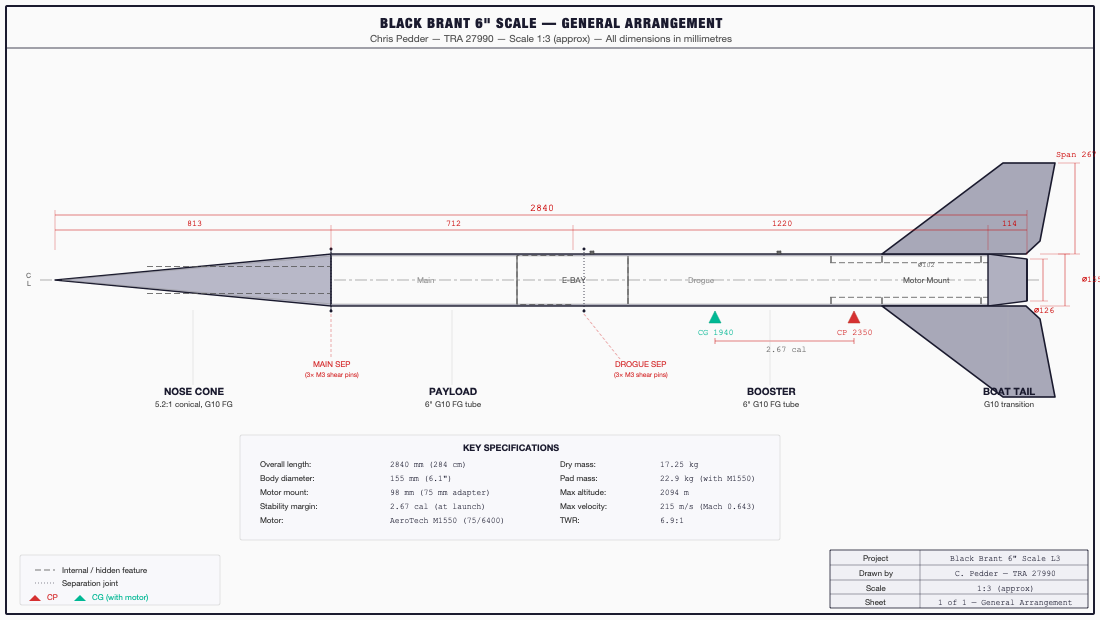
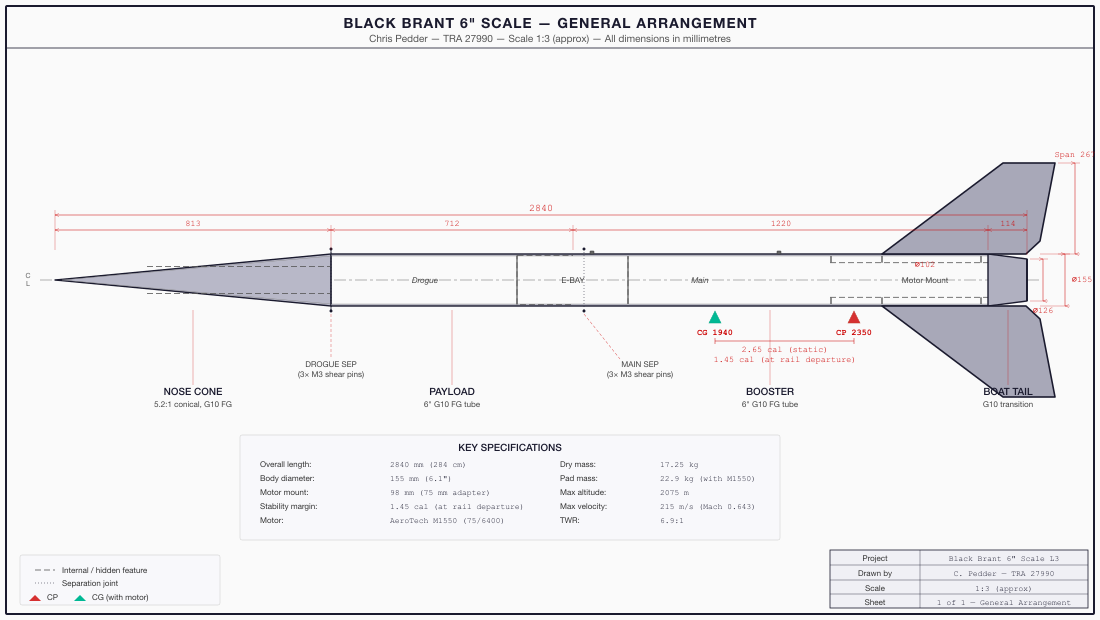
Update design document with corrected values and drawing fixes
- Fix black powder charge calculation (5.0g → 5.5g) and propagate
- Correct nose cone hardware to M6 (from ¼")
- Swap main/drogue labels in profile drawing
- Update stability margin to 1.45 cal at rail departure
- Update max altitude to 2075m
- Change sled material to CF reinforced PLA, mould to PETG
- Confirm waiver radius, remove TODO notes and pending-update note

diff --git a/document/L3_Design_Document.md b/document/L3_Design_Document.md
@@ -139,11 +139,11 @@ Black powder charge sizes were calculated using the [Speed Motion Rockets ejecti
 - Compartment diameter: 15.2 cm
 - Compartment length: 40 cm
 - Packing fraction: 0.9
-- **Calculated charge: 5.0 g**
+- **Calculated charge: 5.5 g**
 - **Primary charge: 5.7 g** (increased from calculated value after ground testing)
 - **Backup charge: 7.4 g** (primary × 1.3)
 
-The main side primary charge was increased from the calculated 5.0 g to 5.7 g following ground testing. The main compartment is tightly packed with the deployment bag, pilot chute, and Nomex protector (packing fraction 0.9), and the additional charge ensures reliable deployment of the bag and pilot chute under these conditions.
+The main side primary charge was increased from the calculated 5.5 g to 5.7 g following ground testing. The main compartment is tightly packed with the deployment bag, pilot chute, and Nomex protector (packing fraction 0.9), and the additional charge ensures reliable deployment of the bag and pilot chute under these conditions.
 
 ### Ground Testing
 
@@ -247,7 +247,7 @@ Of these three shocks, the harshest comes from the main parachute opening, which
 
 **Booster:** 2× U-bolts, 16 mm steel washers, attached to 3 mm G10 centering ring. Bolt breaking force (peak): 4000 kg. Centering ring breaking force: 5800 kg (on one washer).
 
-**Nose Cone:** ¼" threaded rod (A2-70 stainless steel), attached to 2× ¼" stainless steel locking nuts, locked to 3 mm G10 centering ring. Centering ring breaking force: 5800 kg (on one washer). Bolt breaking force: 1463 kg (UTS 700 MPa × 20.5 mm² tensile stress area). Threaded rod breaking force: 988 kg.
+**Nose Cone:** M6 threaded rod (A2-70 stainless steel), attached to 2× M6 stainless steel locking nuts, locked to 3 mm G10 centering ring. Centering ring breaking force: 5800 kg (on one washer). Bolt breaking force: 1463 kg (UTS 700 MPa × 20.5 mm² tensile stress area). Threaded rod breaking force: 988 kg.
 
 **Electronics Bay:** 2× U-bolts, 16 mm steel washers, attached to G10 bulkplate. Bolt breaking force (peak): 4000 kg. Bulkplate breaking force (peak): 5800 kg (one washer).
 
@@ -310,7 +310,7 @@ Of these three shocks, the harshest comes from the main parachute opening, which
 | Coupler tube | 32.8 cm | 14.9 cm | 3.175 mm | G10 Fibreglass (Madcow) | 850 g |
 | Switch band | 5 cm | 15.5 cm | 3.175 mm | G10 Fibreglass (cut from booster tube) | — |
 | Bulkheads + U-bolts (×2) | — | 14.9 cm | 6 mm (2× 3 mm laminate) | G10 Fibreglass | 277 g |
-| Sled, batteries, rods, wiring | — | — | — | ABS sled, 2× M6 rod, 2× 9V Varta | 650 g |
+| Sled, batteries, rods, wiring | — | — | — | CF reinforced PLA sled, 2× M6 rod, 2× 9V Varta | 650 g |
 
 ## Payload
 
@@ -341,7 +341,7 @@ Of these three shocks, the harshest comes from the main parachute opening, which
 
 The stock Black Brant kit comes with an aluminium nose tip, which can be flown at the Prefect's discretion under Tripoli rules, but can cause some worries. In order to mitigate this, a forged compressed carbon fibre alternative has been fabricated.
 
-A mould was 3D-printed in ABS and treated with mould release. Chopped carbon fibres (20 mm and 6 mm lengths) were laid up in the mould with slow-setting EasyComposites IN2 infusion resin, then compressed with a G-clamp during the 24-hour cure to remove excess resin and consolidate the part. After demoulding, surface imperfections were filled with West Systems epoxy thickened with colloidal silica.
+A mould was 3D-printed in PETG and treated with mould release. Chopped carbon fibres (20 mm and 6 mm lengths) were laid up in the mould with slow-setting EasyComposites IN2 infusion resin, then compressed with a G-clamp during the 24-hour cure to remove excess resin and consolidate the part. After demoulding, surface imperfections were filled with West Systems epoxy thickened with colloidal silica.
 
 The nose tip is drilled and threaded to accept a 6 mm stainless steel threaded rod, which runs the full length of the nose cone and provides the primary structural connection for the nose assembly. The forged carbon tip carries the closure ring for the nose electronics bay on the other end of the threaded rod, secured with a washer and wing nut.
 
@@ -353,8 +353,6 @@ The nose tip is drilled and threaded to accept a 6 mm stainless steel threaded r
 ## General Arrangement Drawing
 
 The following dimensioned drawing shows the overall layout of the rocket, including section lengths, separation joints, internal structure (dashed), CG and CP positions, and key specifications. All dimensions are in millimetres.
-
-**Note:** This drawing is pending update to reflect the corrected CG position (1940 mm from nose tip), stability margin (1.45 cal at rail departure), and altitude (2075 m) from the finalised OpenRocket simulation. The structural dimensions and layout shown are correct.
 
 ![General arrangement drawing — dimensioned](images/rocket_profile.png){width=100% angle=90}
 
@@ -605,9 +603,7 @@ $$KE = \frac{1}{2} \times 17.25 \times 4.32^2 = 161 \text{ J}$$
 
 ## Drogue-Only Failure Scenario
 
-In the event of a main parachute deployment failure, the rocket would descend on the drogue parachute alone at approximately 14.4 m/s (47.2 ft/s). This exceeds the 35 ft/s TRA limit and would result in non-certification. However, the dual-redundant electronics and ground-tested ejection charges are designed to minimise the probability of this failure. Under a drogue-only descent from 2,075 m with a 5 m/s crosswind, the estimated drift distance is approximately 714 m, which should remain within the typical ARGOS Cernier waiver radius.
-
-**[TO BE CONFIRMED: verify waiver radius with launch organiser before flight - believed to be 3km, with 1.2-1.5km of usable recovery area.]**
+In the event of a main parachute deployment failure, the rocket would descend on the drogue parachute alone at approximately 14.4 m/s (47.2 ft/s). This exceeds the 35 ft/s TRA limit and would result in non-certification. However, the dual-redundant electronics and ground-tested ejection charges are designed to minimise the probability of this failure. Under a drogue-only descent from 2,075 m with a 5 m/s crosswind, the estimated drift distance is approximately 714 m, which should remain within the typical ARGOS Cernier waiver radius (3.0km, with 1.2-1.5km of usable recovery area).
 
 ## Waiver Compliance
 
@@ -982,7 +978,7 @@ The rocket paint scheme selected was the Black Brant Wallops Island test scheme.
 
 - [ ] Install GPS tracker battery and verify GPS lock (LED indication or app confirmation).
 - [ ] Arm GPS tracker via turn switch on bulkplate.
-- [ ] Assemble nose cone: insert coupler with tracker bay, secure with ¼" threaded rod and locking nuts.
+- [ ] Assemble nose cone: insert coupler with tracker bay, secure with M6 threaded rod and wing nut.
 - [ ] Verify nose cone tip is secure.
 
 ## 7. Final Assembly
